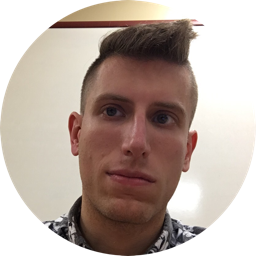
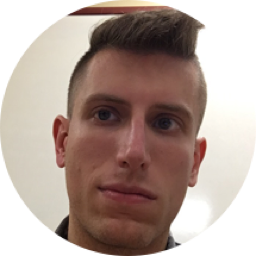
enabling bridal party

Changed region(s): [[0.1562, 0.0, 0.8438, 1.0], [0.625, 0.4062, 0.6562, 0.4375]]

diff --git a/_includes/bridal_party.html b/_includes/bridal_party.html
@@ -27,7 +27,7 @@
 				</div>
 				<div class="item left-align row">
 					<h2 class="col-xs-12">Emilie Rabehi <small>Bridesmaid</small></h2>
-					<p class="col-xs-12">Emilie, has lived all over the world so when her job eventually brought her to Boston she wanted a local's perspective on where to live. Setting up a video conference with her then co-worker Gabriella the two quickly became friends with Emilie even getting an apartment just up the street from Gabriella’s. Gabriella helped Emilie navigate her new city, and even introduced her to American Thanksgiving in Florida. Gabriella is excited that Emilie is travelling to Italy to be her bridesmaid.</p>
+					<p class="col-xs-12">When Emilie’s job brought her to Boston she reached out to her co-worker Gabriella to get a local’s perspective on where to live. Gabriella helped Emilie navigate her new city discussing the merits of various neighborhoods (Beacon Hill is obviously the best). When Emilie moved into an apartment just down the street from Gabriella they quickly became friends. Gabriella is excited that Emilie will be travelling to Italy to be her bridesmaid.</p>
 				</div>
 				<div class="item left-align row active">
 					<h2 class="col-xs-12" >Katherine Sultenfuss <small>Maid of Honor</small></h2>
@@ -44,7 +44,7 @@
 					<img data-target="#groomsman-carousel" data-slide-to="0" class="carousel-image active" src="/images/stephen.png" alt="Stephen Pardy" />
 				</div>
 				<div class="col-xs-3">
-					<img data-target="#groomsman-carousel" data-slide-to="1" class="carousel-image" src="/images/michael.png" alt="Michael Addonisio" />
+					<img data-target="#groomsman-carousel" data-slide-to="1" class="carousel-image" src="/images/michael2.png" alt="Michael Addonisio" />
 				</div>
 				<div class="col-xs-3">
 					<img data-target="#groomsman-carousel" data-slide-to="2" class="carousel-image" src="/images/ben.png" alt="Ben LaVerriere" />

diff --git a/index.html b/index.html
@@ -12,7 +12,7 @@ sections:
   -
     name: Bridal Party
     id: bridal
-    content: party_holder.html
+    content: bridal_party.html
   -
     name: Festivities
     id: events
